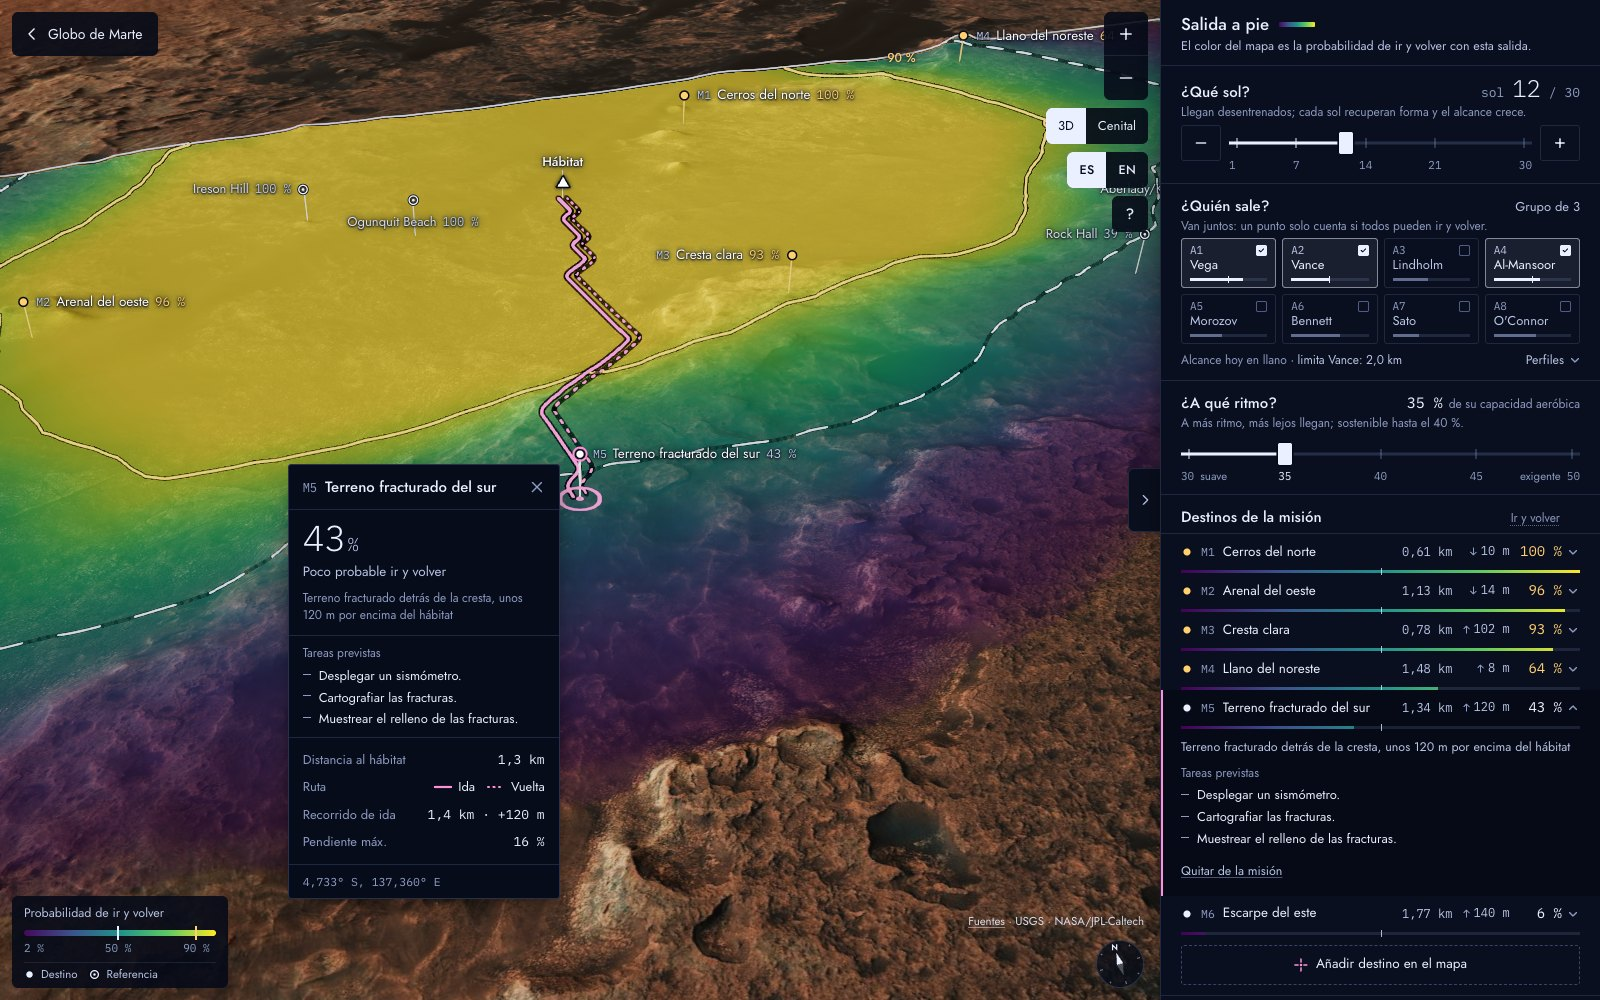
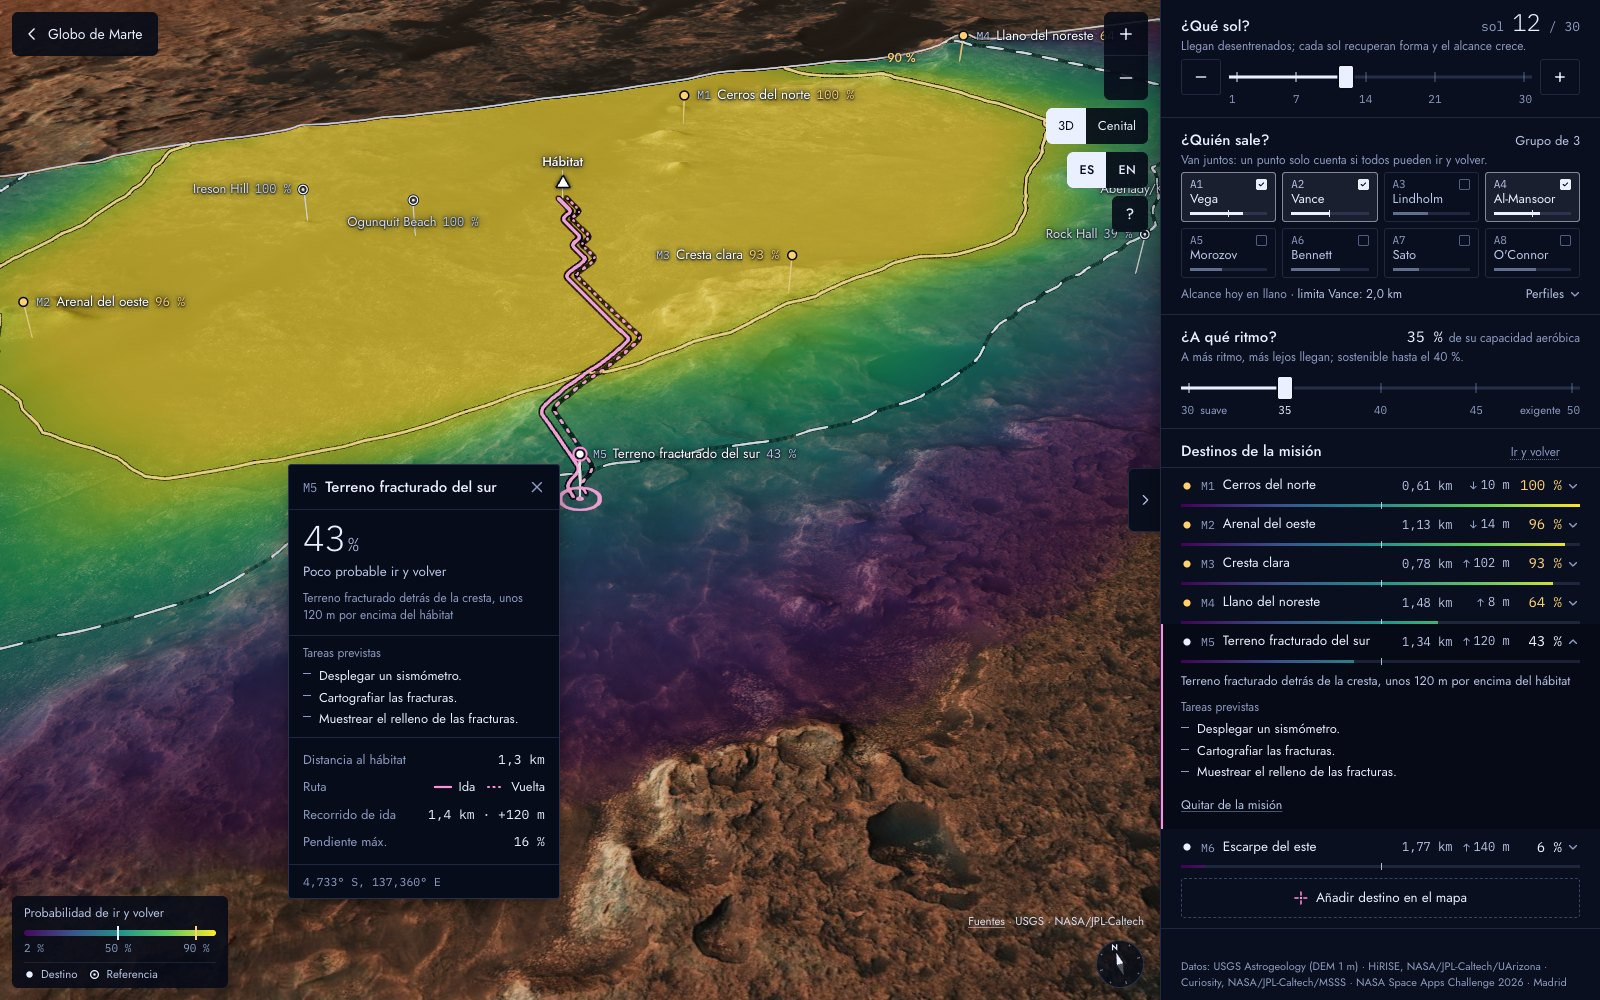
Documentación al día: panel sin cabecera, nueva imagen de la muñeca y proyecto del Space Apps 2026
- Capturas de docs/img rehechas sin la cabecera del panel (terreno, cenital,
  destino y móvil, en español e inglés) y estilo del mapa sin la viñeta
  «Cabecera»: el panel empieza por «¿Qué sol?».
- Nueva imagen conceptual de la muñeca; se quita la del visor del casco.
- Los README dicen que es nuestro proyecto para el NASA Space Apps
  Challenge 2026 (Madrid).

diff --git a/docs/es/estilo_mapa.md b/docs/es/estilo_mapa.md
@@ -166,8 +166,7 @@ El mapa principal es 3D (`src/components/mapa3d/`); el 2D queda como plan B si n
 
 El panel sigue el mismo estilo que el mapa. Las piezas comunes están en `src/components/panel/comun.tsx`: `CIFRA`, los colores de texto y borde, `Seccion`, `Deslizador`, `Despliegue`, `Casilla`, `MarcaDestino` y `Chevron`. Los textos y los formatos de número (coma decimal en español, punto en inglés) salen de `useIdioma()`, en `src/lib/i18n.ts`.
 
-- **Estructura:** una columna sólida (`#0a0f1f`) que se lee de arriba abajo en tres bloques separados por un borde de 1 px: qué es (cabecera), la salida que se define (tres preguntas) y lo que el modelo responde para los destinos de la misión. Cada pregunta tiene título (15 px, peso 500), la respuesta actual a la derecha, una línea de ayuda que dice qué cambia en el mapa y su control. Los márgenes y la disposición siguen el ancho del propio panel, no el de la ventana.
-- **Cabecera:** «Salida a pie», con una franja pequeña de la escala viridis, y «El color del mapa es la probabilidad de ir y volver con esta salida.»
+- **Estructura:** una columna sólida (`#0a0f1f`) que se lee de arriba abajo en dos bloques separados por un borde de 1 px: la salida que se define (tres preguntas, empezando directamente por «¿Qué sol?») y lo que el modelo responde para los destinos de la misión. Cada pregunta tiene título (15 px, peso 500), la respuesta actual a la derecha, una línea de ayuda que dice qué cambia en el mapa y su control. Los márgenes y la disposición siguen el ancho del propio panel, no el de la ventana.
 - **«¿Qué sol?»:** deslizador del 1 al 30 con botones − y + a los lados para ir sol a sol; a la derecha, «sol 12 / 30» con la cifra en grande.
 - **«¿Quién sale?»:** los ocho perfiles están siempre a la vista (dos columnas, cuatro si el panel es ancho), cada uno un botón con su id, su apellido y una casilla cuadrada. Un toque mete o saca a una persona (siempre sale al menos una); a la derecha, «1 persona», «Pareja» o «Grupo de n». Bajo cada perfil, una barra con hasta dónde puede ir y volver esa persona en llano ese sol (capa 3 con los valores centrales, en una escala de 0 a 4 km; no es la probabilidad del mapa). Con varias personas, una marca señala el alcance del grupo y la línea de abajo dice quién lo limita: «Alcance hoy en llano · limita …». «Perfiles» despliega la ficha de cada perfil: rol, arquetipo, VO₂ previo, masa y alcance de hoy en llano.
 - **«¿A qué ritmo?»:** deslizador del 30 % al 50 % en pasos de 5, con «suave» y «exigente» en los extremos; a la derecha, «35 % de su capacidad aeróbica».

diff --git a/docs/map-style.md b/docs/map-style.md
@@ -168,8 +168,7 @@ The main map is 3D (`src/components/mapa3d/`); the 2D one remains as plan B if t
 
 The panel follows the same style as the map. The shared pieces are in `src/components/panel/comun.tsx`: `CIFRA`, the text and border colors, `Seccion`, `Deslizador`, `Despliegue`, `Casilla`, `MarcaDestino` and `Chevron`. Texts and number formats (decimal comma in Spanish, point in English) come from `useIdioma()` in `src/lib/i18n.ts`.
 
-- **Structure:** a solid column (`#0a0f1f`) that reads from top to bottom in three blocks separated by a 1 px border: what it is (header), the walk being defined (three questions) and what the model answers for the mission destinations. Each question has a title (15 px, weight 500), the current answer on the right, a help line that says what it changes on the map, and its control. Margins and layout follow the width of the panel itself, not of the window.
-- **Header:** “Walk plan”, with a small strip of the viridis scale, and “The map's color is the round-trip probability for this walk.”
+- **Structure:** a solid column (`#0a0f1f`) that reads from top to bottom in two blocks separated by a 1 px border: the walk being defined (three questions, starting straight away with “Which sol?”) and what the model answers for the mission destinations. Each question has a title (15 px, weight 500), the current answer on the right, a help line that says what it changes on the map, and its control. Margins and layout follow the width of the panel itself, not of the window.
 - **“Which sol?”:** slider from 1 to 30 with − and + buttons at the sides to go one sol at a time; on the right, “sol 12 / 30” with the number in large type.
 - **“Who goes out?”:** the eight profiles are always in view (two columns, four when the panel is wide), each one a toggle with its id, surname and a square check box. A tap adds or removes a person (at least one always goes out); on the right, “1 person”, “Pair” or “Group of n”. Under each profile, a bar with how far that person can go and return on flat ground that sol (layer 3 with the central values, on a 0–4 km scale; it is not the map's probability). With several people a tick marks the group's reach, and the line below says who limits it: “Reach today on flat ground · limited by …”. “Profiles” opens each profile's card: role, archetype, pre-flight VO₂, mass and today's flat-ground reach.
 - **“At what pace?”:** slider from 30% to 50% in steps of 5, with “easy” and “hard” at the ends; on the right, “35% of their aerobic capacity”.

diff --git a/README.es.md b/README.es.md
@@ -4,7 +4,7 @@
 
 **El mapa de Marte según el cuerpo que lo pisa**
 
-Proyecto para el [NASA Space Apps Challenge 2026](https://www.spaceappschallenge.org/2026/) · Madrid<br>
+**Nuestro proyecto para el [NASA Space Apps Challenge 2026](https://www.spaceappschallenge.org/2026/)** · Madrid<br>
 Reto [*Interplanetary survival guide: Martian map*](https://www.spaceappschallenge.org/2026/challenges/interplanetary-survival-guide-martian-map/)
 
 ![Next.js 16](https://img.shields.io/badge/Next.js-16-000?logo=nextdotjs)
@@ -48,12 +48,10 @@ Los primeros astronautas que pisen Marte llegarán tras unos seis meses sin grav
 <tr>
 <td><img src="docs/img/concepto-nave.jpg" alt="Concepto: la herramienta en una pantalla de la nave"></td>
 <td><img src="docs/img/concepto-muneca.jpg" alt="Concepto: la herramienta en una pantalla de muñeca durante una salida"></td>
-<td><img src="docs/img/concepto-visor.jpg" alt="Concepto: la herramienta proyectada en el visor del casco"></td>
 </tr>
 <tr>
 <td align="center">En la nave, al planificar la salida</td>
 <td align="center">En la muñeca, durante la salida</td>
-<td align="center">En el visor del casco</td>
 </tr>
 </table>
 
@@ -167,7 +165,7 @@ src/
 └── components/
     ├── mapa3d/               Mapa 3D: globo, descenso, terreno, líneas, etiquetas, controles
     ├── mapa/                 Mapa 2D de respaldo, ficha, clave, visor de fotos, fuentes
-    └── panel/                Cabecera, sol, tripulación, ritmo y destinos de la misión
+    └── panel/                Sol, tripulación, ritmo y destinos de la misión
 public/
 ├── data/                     DEM, imágenes y alturas ya procesados (ver su README)
 └── fotos/                    Fotos de Curiosity de cada punto de referencia
@@ -210,5 +208,5 @@ Todos los datos son públicos. El DEM de Gale, los mosaicos HiRISE y MSL y las p
 
 ## Equipo
 
-Land & Stand · NASA Space Apps Challenge 2026, Madrid.<br>
+Land & Stand es nuestro proyecto para el NASA Space Apps Challenge 2026, Madrid.<br>
 Modelo científico y referencia: **Katrina Espinar Herranz**.

diff --git a/README.md b/README.md
@@ -4,7 +4,7 @@
 
 **Mars as it looks to the body that walks it**
 
-A project for the [NASA Space Apps Challenge 2026](https://www.spaceappschallenge.org/2026/) · Madrid<br>
+**Our team's project for the [NASA Space Apps Challenge 2026](https://www.spaceappschallenge.org/2026/)** · Madrid<br>
 Challenge: [*Interplanetary survival guide: Martian map*](https://www.spaceappschallenge.org/2026/challenges/interplanetary-survival-guide-martian-map/)
 
 ![Next.js 16](https://img.shields.io/badge/Next.js-16-000?logo=nextdotjs)
@@ -47,12 +47,10 @@ The first astronauts to set foot on Mars will arrive after some six months witho
 <tr>
 <td><img src="docs/img/concepto-nave.jpg" alt="Concept: the tool on a screen inside the spacecraft"></td>
 <td><img src="docs/img/concepto-muneca.jpg" alt="Concept: the tool on a wrist display during an EVA"></td>
-<td><img src="docs/img/concepto-visor.jpg" alt="Concept: the tool projected on the helmet visor"></td>
 </tr>
 <tr>
 <td align="center">On board, planning the EVA</td>
 <td align="center">On the wrist, during the EVA</td>
-<td align="center">On the helmet visor</td>
 </tr>
 </table>
 
@@ -166,7 +164,7 @@ src/
 └── components/
     ├── mapa3d/               3D map: globe, descent, terrain, lines, labels, controls
     ├── mapa/                 2D fallback map, info card, legend, photo viewer, sources
-    └── panel/                Header, sol, crew, pace and mission destinations
+    └── panel/                Sol, crew, pace and mission destinations
 public/
 ├── data/                     Processed elevation, images and heights (see its README)
 └── fotos/                    Curiosity images of each landmark
@@ -211,5 +209,5 @@ All data is public. The Gale elevation model, the HiRISE and MSL mosaics and the
 
 ## Team
 
-Land & Stand · NASA Space Apps Challenge 2026, Madrid.<br>
+Land & Stand is our team's project for the NASA Space Apps Challenge 2026, Madrid.<br>
 Scientific model and reference: **Katrina Espinar Herranz**.
